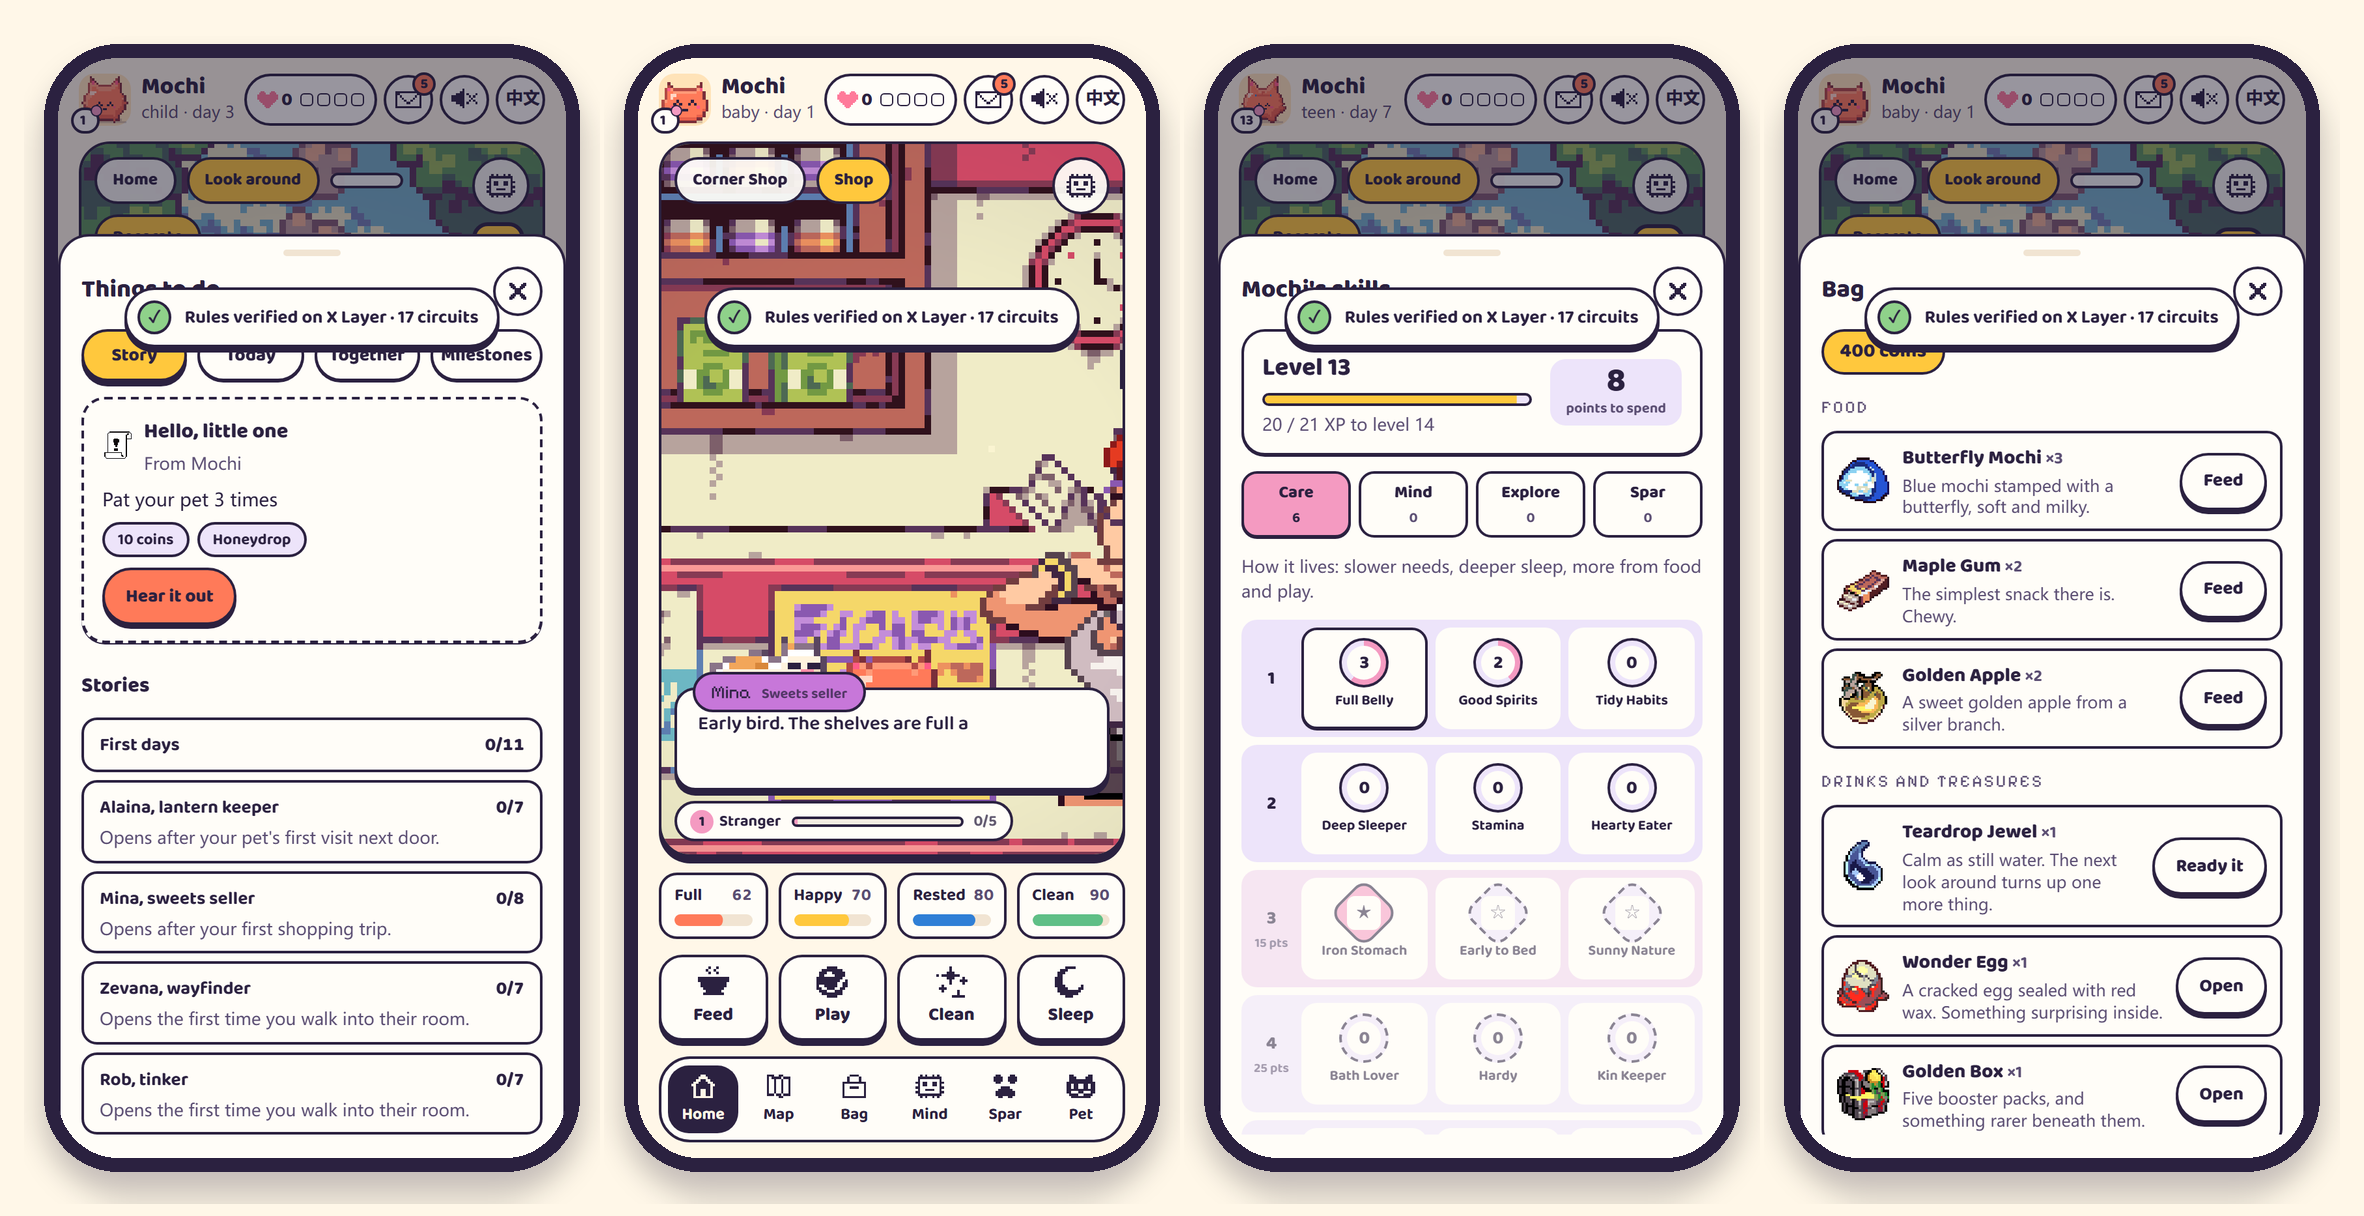
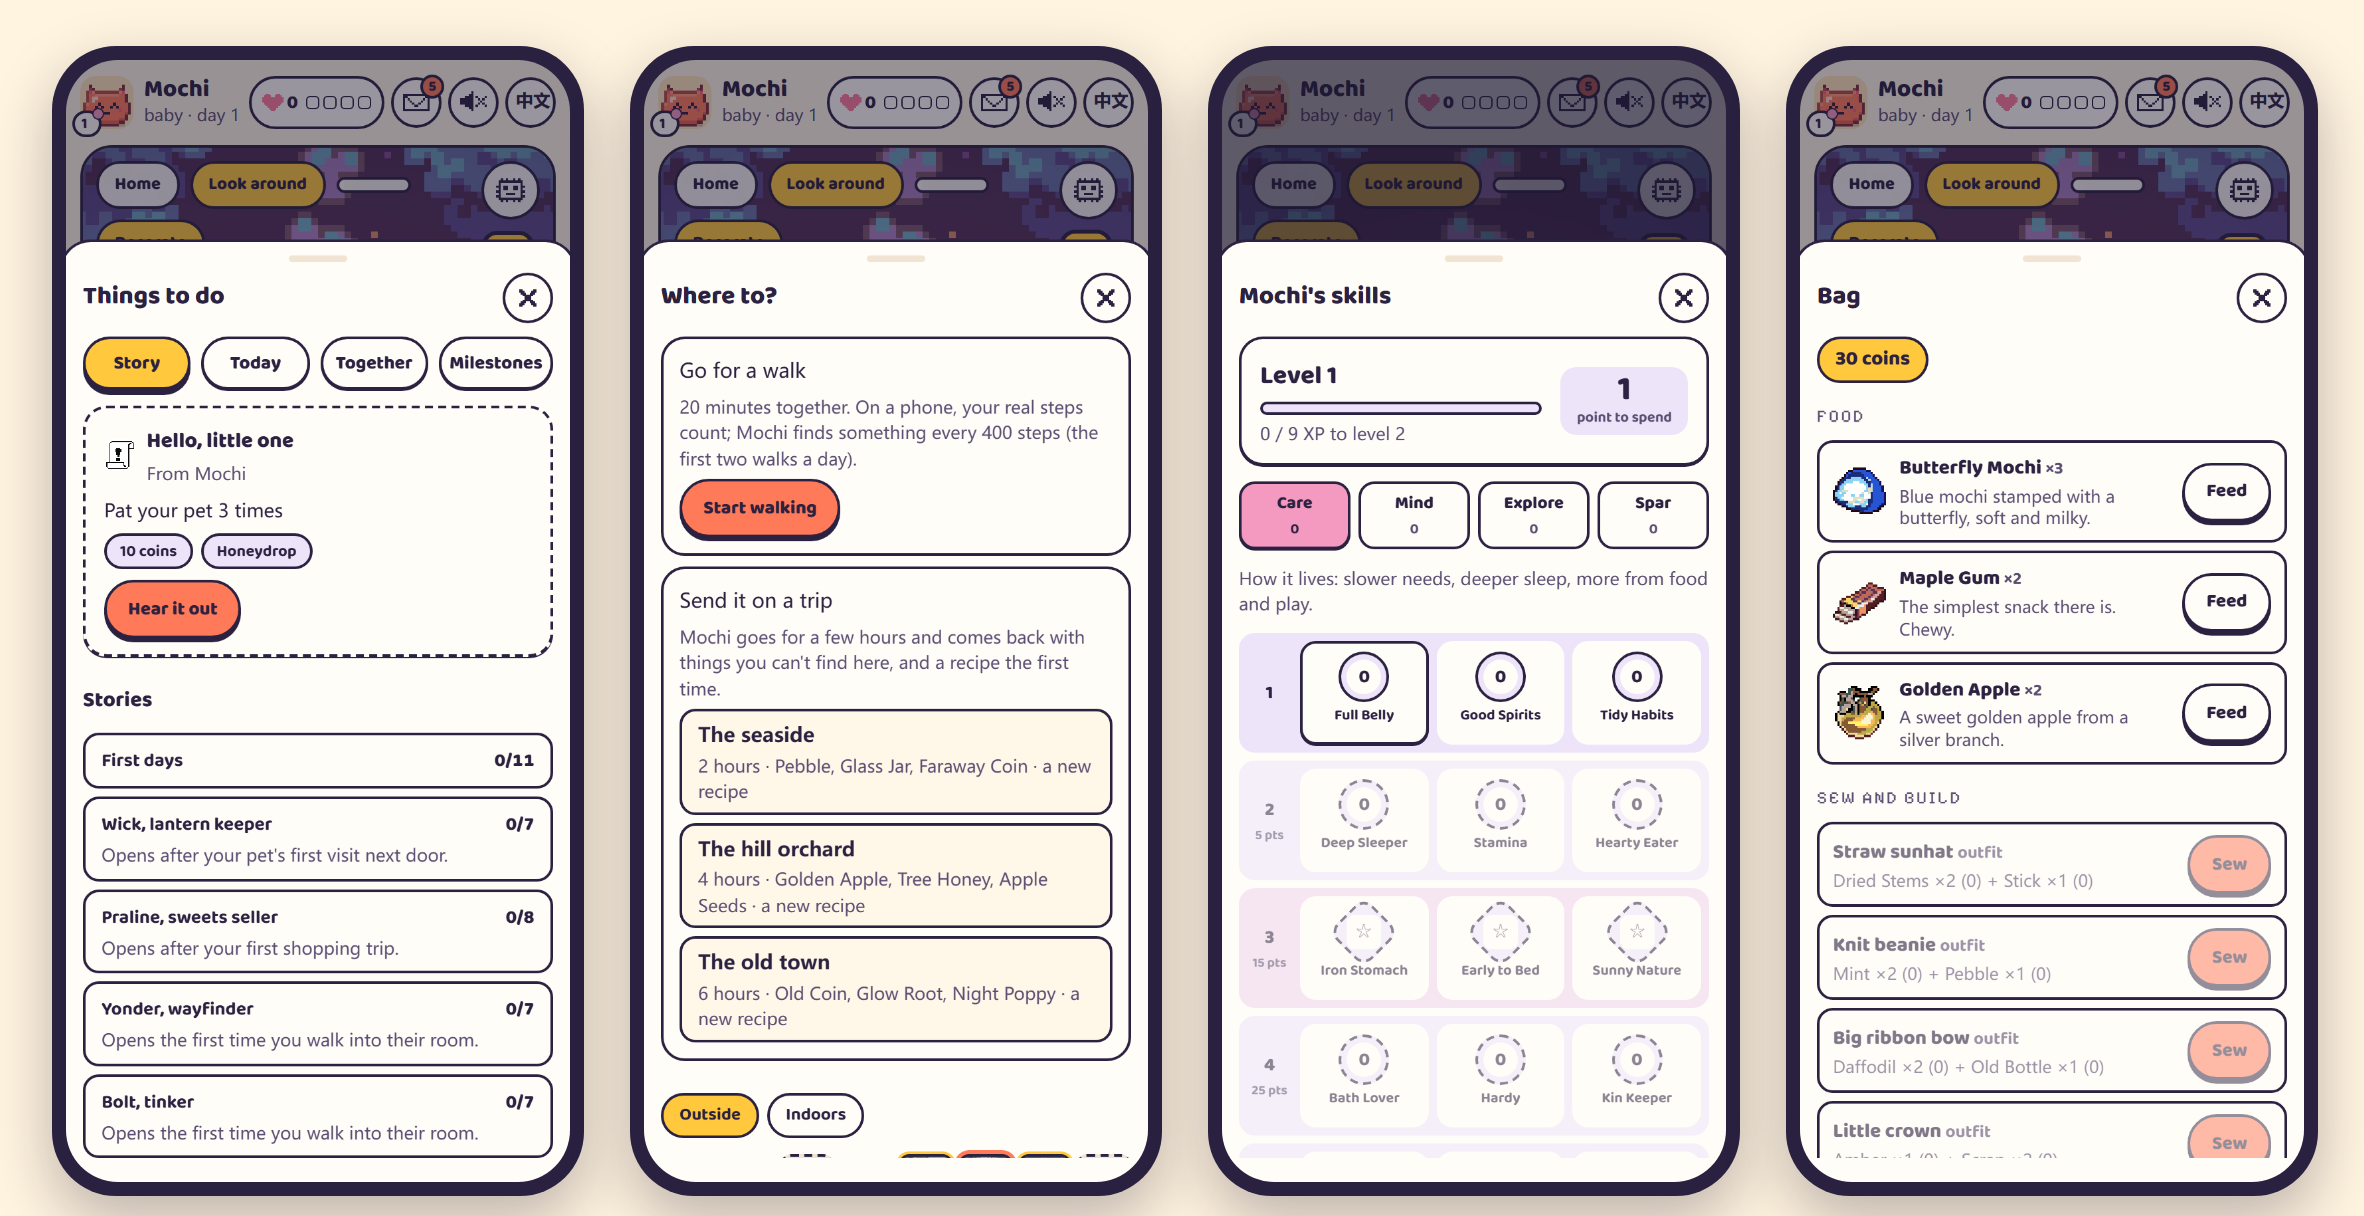
Take every README image again from the live game, and keep them current
Four images still showed sentences the game had dropped and the source game's
resident names. A script now takes the phone images from the live site, each
scene a pet hatched in a fresh phone browser and walked to its screen, and
the page script takes the tree too. Both record which live build their
images show, and the status check holds the images to it: pending while the
game has changed since, failing at a milestone's close. Alt texts follow the
new pictures.

diff --git a/README.md b/README.md
@@ -41,7 +41,7 @@ flowchart LR
 
 The game runs the same netlist through a fast local evaluator; any beat can be re-run on chain through the processor's `step`. The proof page and `pnpm judge:check` do that and say whether the two agree; the game itself does not check each beat against the chain as it plays.
 
-<p align="center"><img src="docs/readme/play.png" alt="Home, the circuit view, teaching in plain words, a spar" width="100%"></p>
+<p align="center"><img src="docs/readme/play.png" alt="Home at night, the circuit view, an instinct from a circuit you own, a spar and its coach" width="100%"></p>
 
 ## What you do in it
 
@@ -53,7 +53,7 @@ The game runs the same netlist through a fast local evaluator; any beat can be r
 
 **Live in a world.** <!--f:rooms-->70<!--/f--> rooms that follow your own clock, residents with their own stories, foraging, a garden, walks counted by your steps and trips that bring back new recipes. **<!--f:quests-->80<!--/f--> story quests** in twelve arcs and **three dailies a day** drawn from <!--f:dailies-->15<!--/f-->, with an introduction and a closing in each giver's voice, in English and Chinese. **Residents remember you:** trust grows with gifts and errands and opens shelves, recipes and visits. **Levels and <!--f:trees-->4<!--/f--> skill trees** (Care, Mind, Explore, Spar; <!--f:skills-->72<!--/f--> skills); capstone skills add real gates to the brain. **<!--f:items-->116<!--/f--> items and <!--f:recipes-->39<!--/f--> recipes**: tools, energy, experience, boxes with their own odds. Community goals the whole player base reaches together, with a keepsake for everyone who helped.
 
-<p align="center"><img src="docs/readme/world.png" alt="The quest book, talking to a resident, the skill trees, the bag" width="100%"></p>
+<p align="center"><img src="docs/readme/world.png" alt="The quest book, the map, the skill trees, the bag" width="100%"></p>
 
 **Spar.** Nobody presses buttons: each move comes from your pet's own circuit reading the fight, and for a pet kept on X Layer every move can be checked against its brain there. After a loss, the coach replays the fight with every lesson your pet could learn and tells you which one actually wins. Challenge a friend by link, take the daily challenge seeded by the first X Layer block of the day, run the arena with companions, and enter weekly seasons whose champion's brain is taped out as a keepsake.
 
@@ -96,7 +96,7 @@ There is one other rail, in OKB: designs listed on the first outfit market, befo
 
 Every one of these numbers is read from X Layer by Lingxi's server, at most a minute old, on the [live-numbers page](https://lingxi.knole.me/numbers.html), which refreshes each minute: pets hatched and born, days kept on X Layer, outfits sold, BEM burned by each contract and in total, with the contract each figure comes from. `pnpm --filter @lingxi/chain recount` recomputes them independently from the chain's logs and reports any difference.
 
-<p align="center"><img src="docs/readme/chain.png" alt="The item shop, the adoption centre, the home at night in Chinese, the map" width="100%"></p>
+<p align="center"><img src="docs/readme/chain.png" alt="The item shop, the adoption centre and neighbours, the home at night in Chinese, the map in Chinese" width="100%"></p>
 
 **The adoption centre keeps a promise:** only a little one that was bred, is still young and has never changed hands can be offered; a raised pet is never for sale. The listing fixes a fingerprint of the pet's on-chain record, the papers travel as a signed file, and the adopter's game checks them against X Layer (brain, log, record) before paying a single BEM.
 
